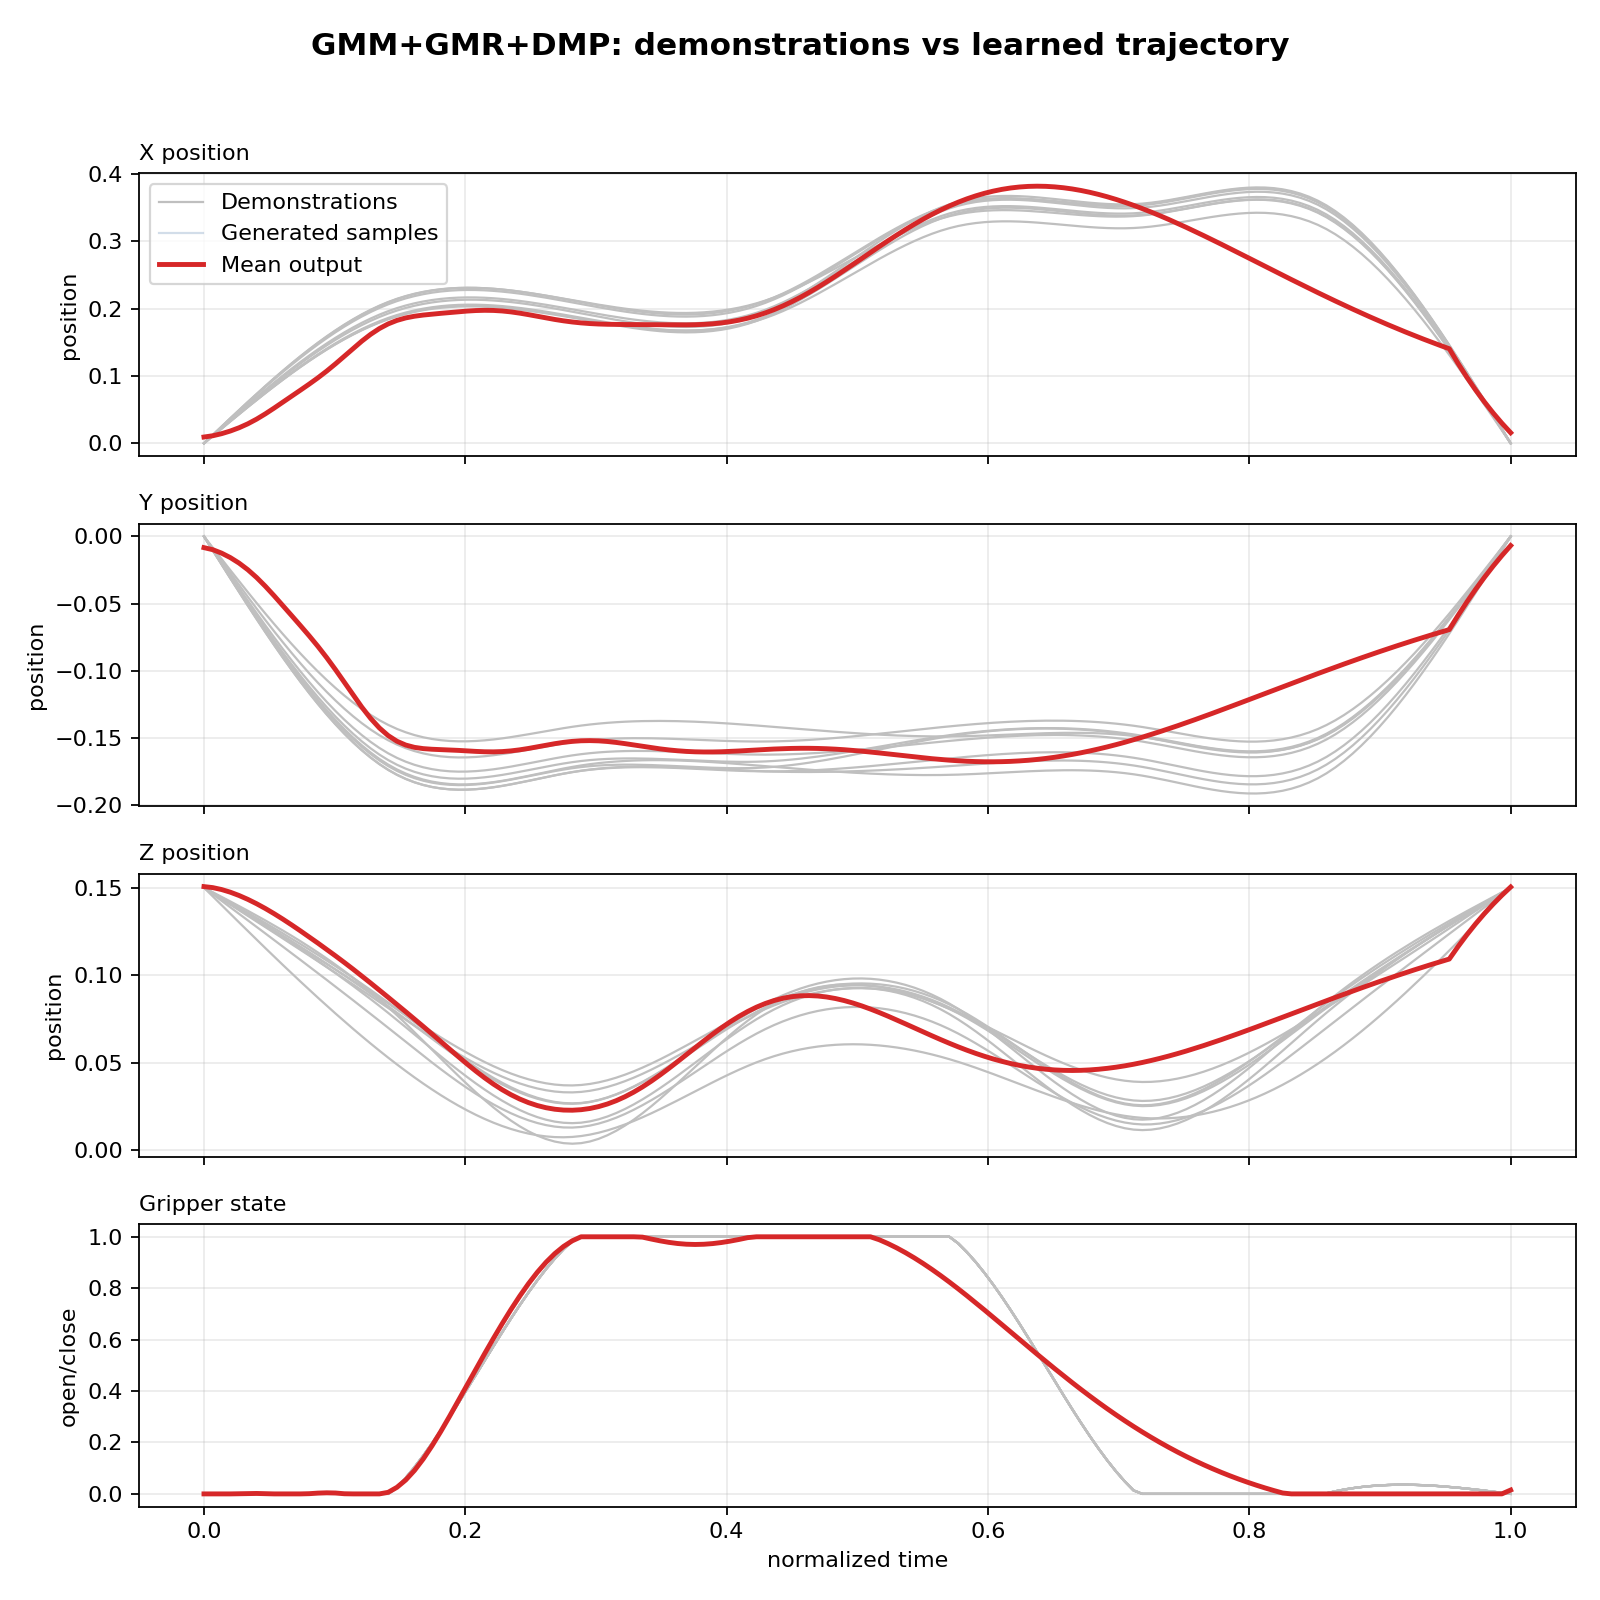
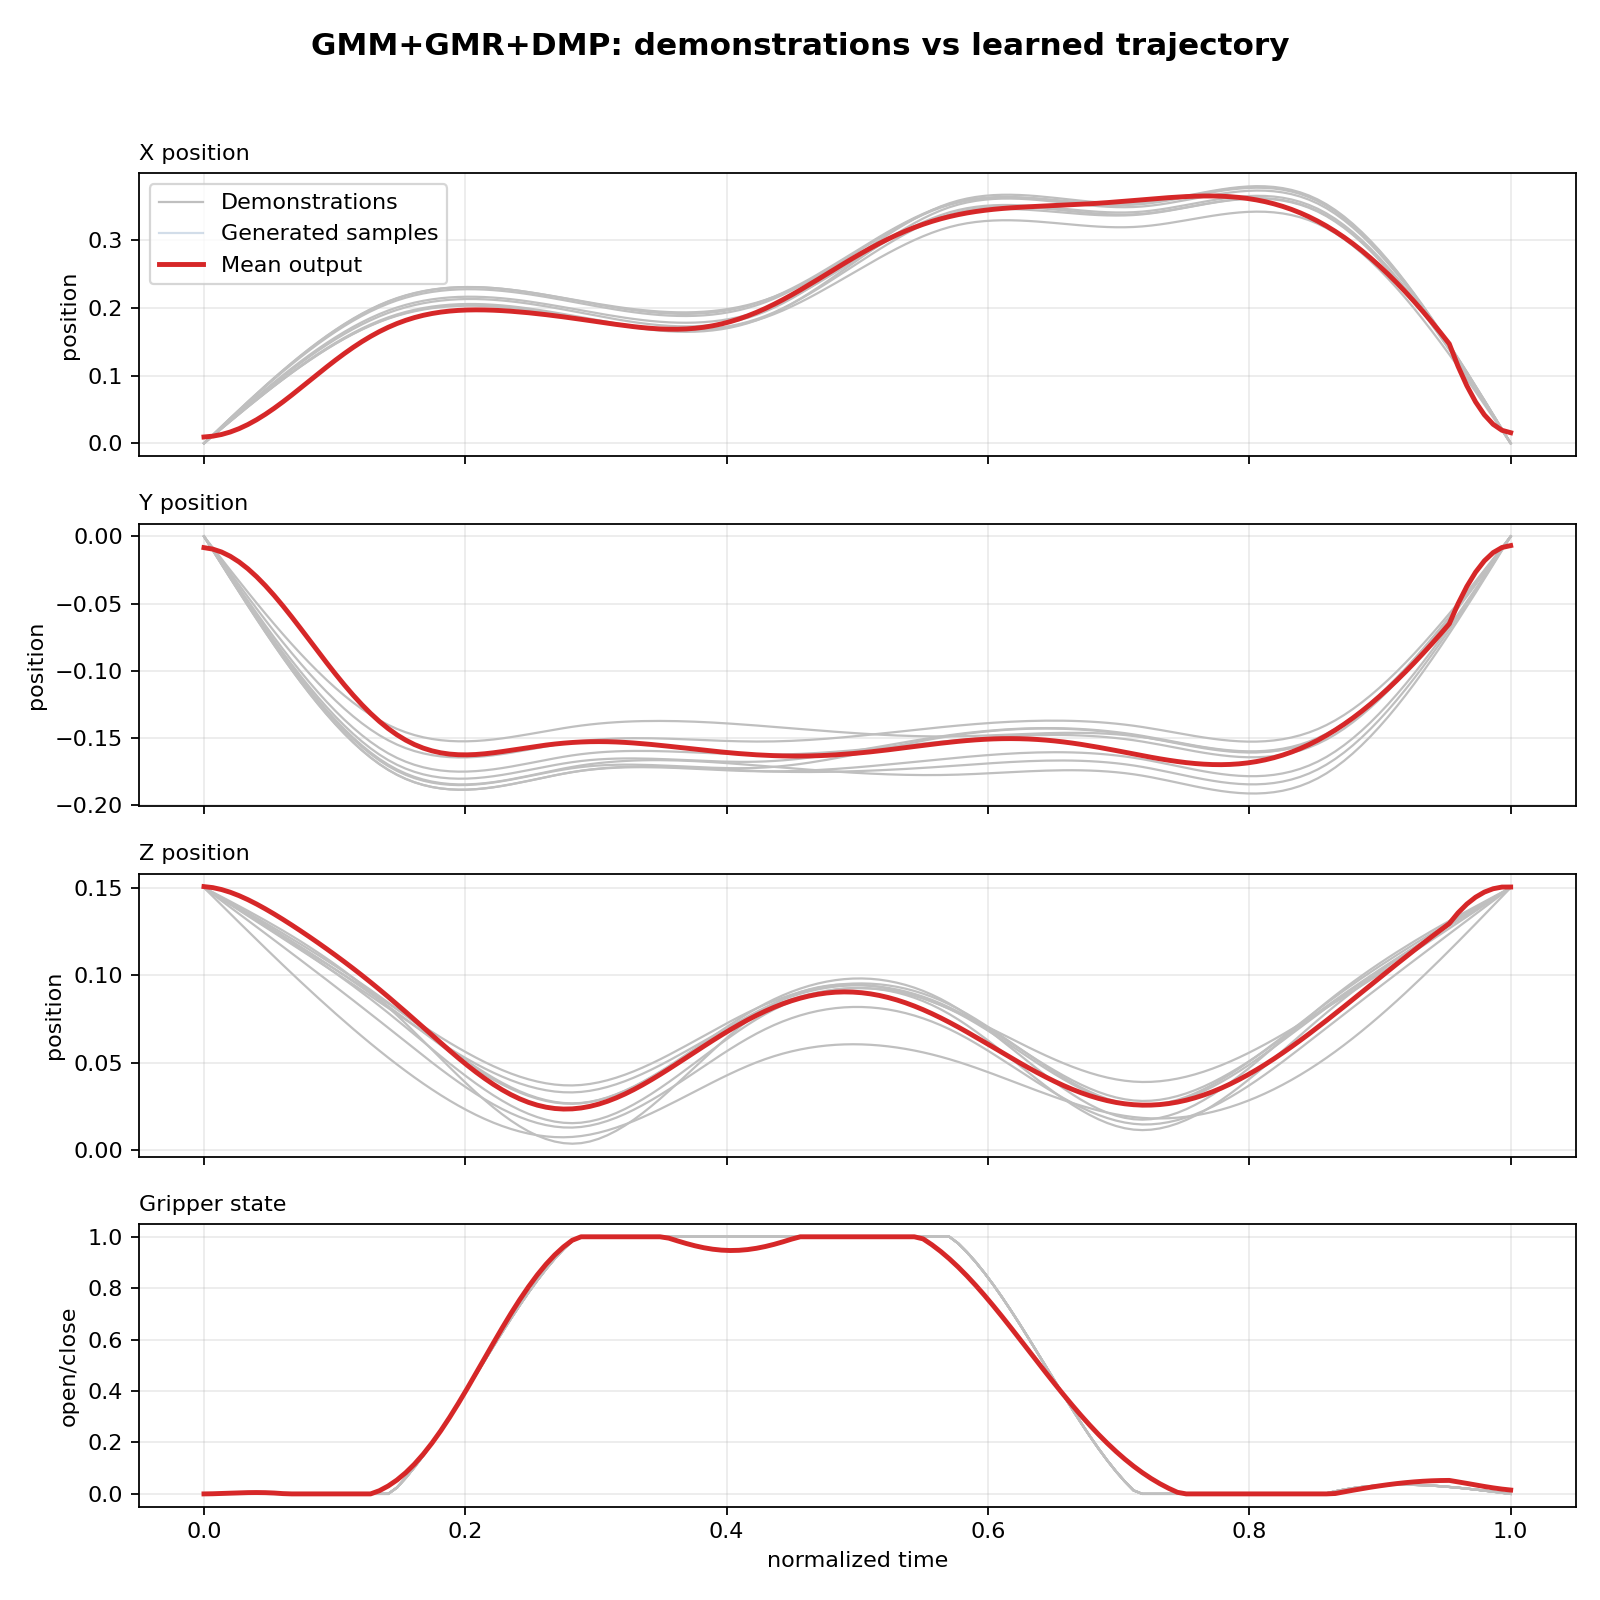
docs: update algorithm metrics and improve model performance

diff --git a/models/algorithm_metrics.md b/models/algorithm_metrics.md
@@ -2,8 +2,8 @@
 
 | Algorithm | Pearson Mean | RMSE Mean | Pearson X | Pearson Y | Pearson Z | Pearson Gripper | RMSE X | RMSE Y | RMSE Z | RMSE Gripper |
 |---|---:|---:|---:|---:|---:|---:|---:|---:|---:|---:|
-| GMM+GMR+DMP | 0.9392 | 0.0403 | 0.9229 | 0.9056 | 0.9416 | 0.9865 | 0.0455 | 0.0250 | 0.0150 | 0.0754 |
-| Inc-GMM+GMR+DMP | 0.9397 | 0.0398 | 0.9179 | 0.9091 | 0.9449 | 0.9868 | 0.0455 | 0.0245 | 0.0145 | 0.0748 |
+| GMM+GMR+DMP | 0.9871 | 0.0187 | 0.9925 | 0.9716 | 0.9864 | 0.9980 | 0.0186 | 0.0158 | 0.0092 | 0.0312 |
+| Inc-GMM+GMR+DMP | 0.9927 | 0.0123 | 0.9969 | 0.9831 | 0.9911 | 0.9996 | 0.0145 | 0.0138 | 0.0081 | 0.0130 |
 | GMM+GMR+Segmented DMP | 0.9934 | 0.0139 | 0.9946 | 0.9894 | 0.9906 | 0.9988 | 0.0138 | 0.0111 | 0.0084 | 0.0222 |
 | BGMM+GMR+ProMP | 0.9867 | 0.0205 | 0.9850 | 0.9753 | 0.9892 | 0.9974 | 0.0207 | 0.0144 | 0.0091 | 0.0375 |
 
